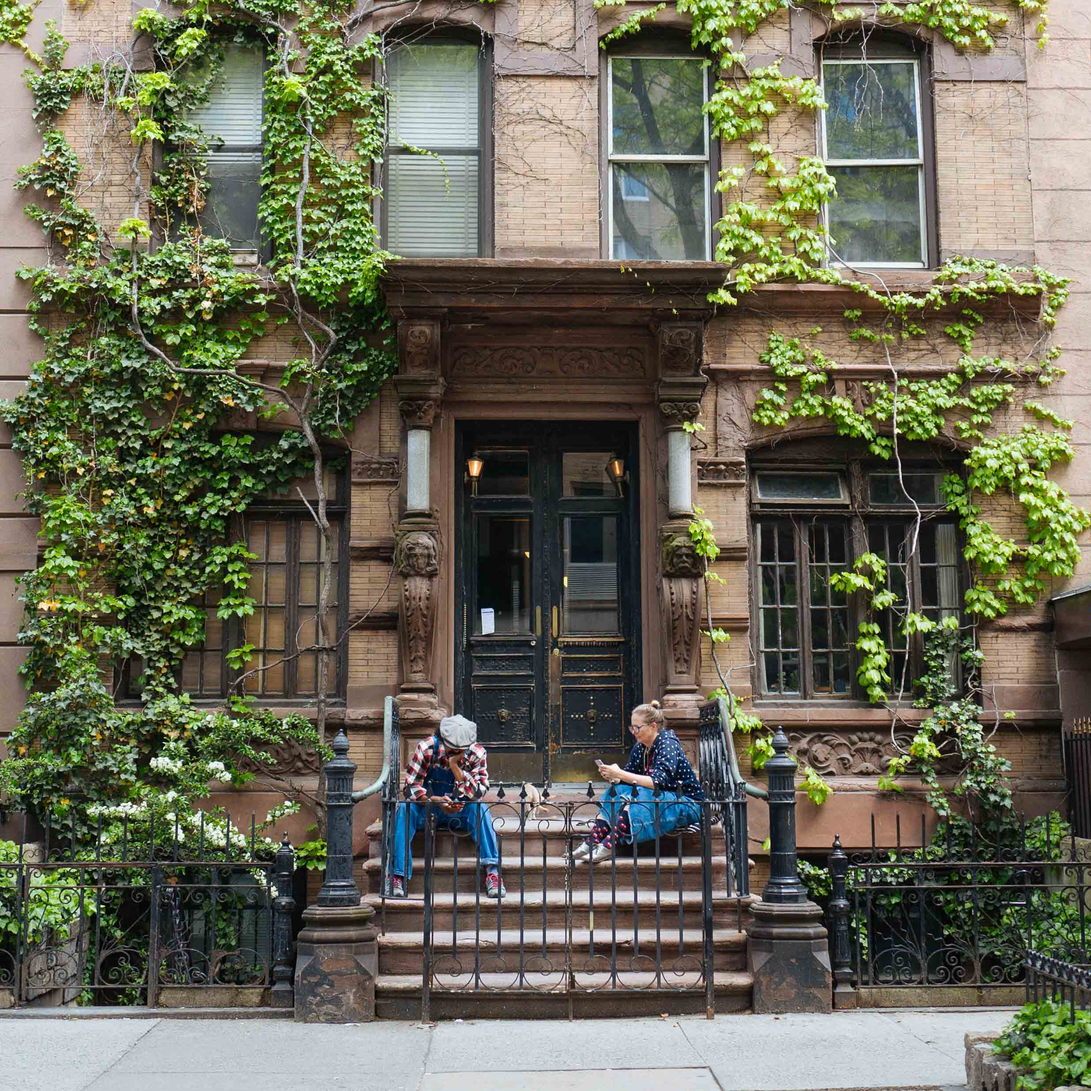
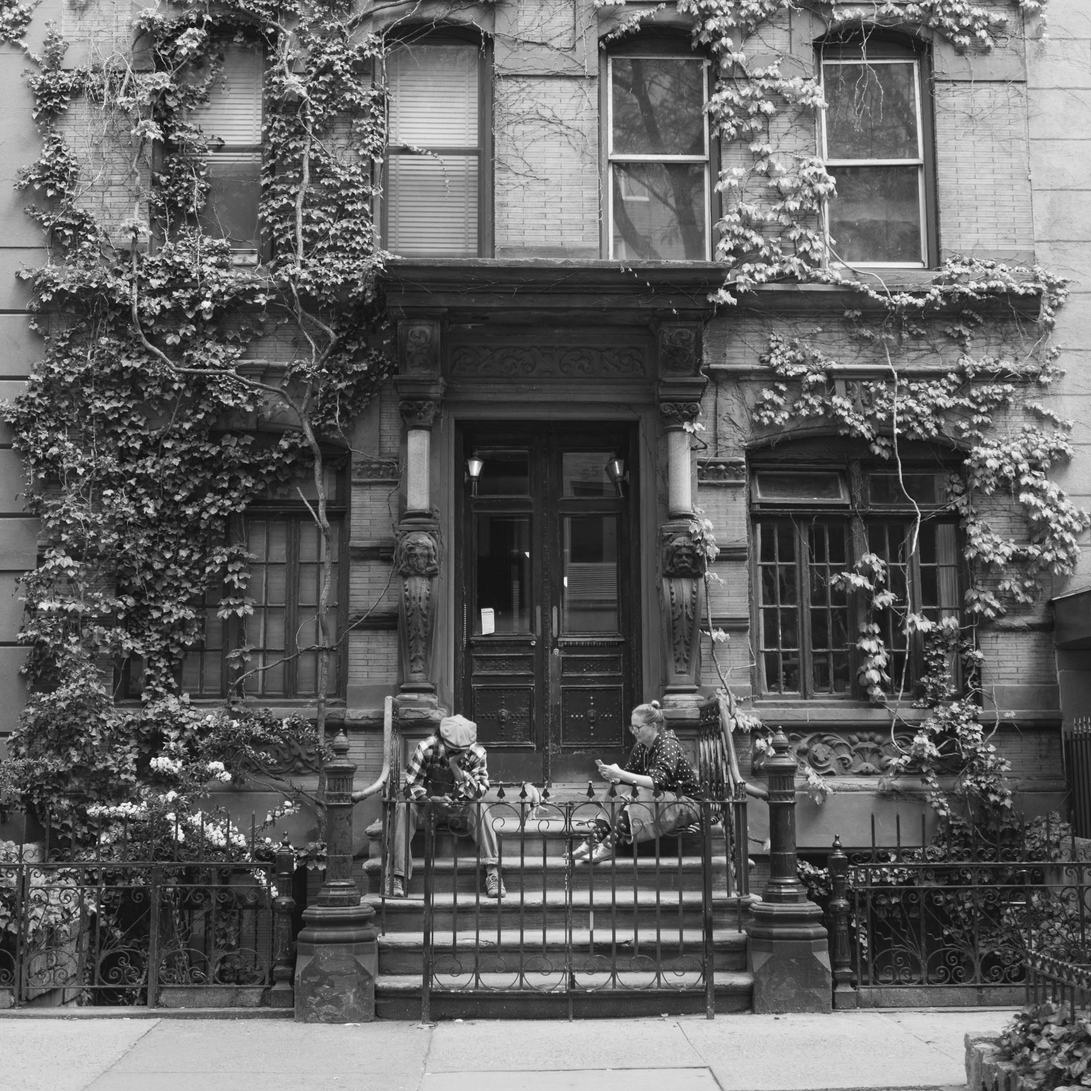
Improve image assets

diff --git a/index.html b/index.html
@@ -11,7 +11,6 @@
 			object-fit: cover;
 			height: 100%;
 			width: 100%;
-			filter: grayscale(100%) opacity(95%);
 		}
 		
 		.content {
@@ -24,7 +23,7 @@
 			text-align: center;
 		}
 		
-		@media screen and (min-width: 768px) {
+		@media (min-width: 480px) {
 			.content {
 				width: 40%;
 			}
@@ -52,7 +51,13 @@
 	</style>
 </head>
 <body>
-	<img src="background.jpg" class="background" id="background"/>
+	<picture>
+		<source srcset="background-mobile.webp" type="image/webp" class="background" />
+		<source srcset="background-mobile.jpg" type="image/jpeg" class="background" /> 
+		<source media="(min-width: 480px)" srcset="background.webp" type="image/webp" class="background" />
+		<source media="(min-width: 480px)" srcset="background.jpg" type="image/jpeg"  class="background" />
+		<img src="background.jpg" class="background" />
+	</picture>
 	<div class="content">
 		<svg xmlns="http://www.w3.org/2000/svg" viewBox="475 122 611 190" class="name">
 			<path fill-rule="evenodd" d="M548.4 205.16c-.56-.56-.84-1.24-.84-2.04V137h-22.2c-.8 0-1.48-.28-2.04-.84-.56-.56-.84-1.28-.84-2.16v-9c0-.88.26-1.6.78-2.16s1.22-.84 2.1-.84h61.32c.88 0 1.6.28 2.16.84.56.56.84 1.28.84 2.16v9c0 .88-.28 1.6-.84 2.16-.56.56-1.28.84-2.16.84H564.6v66.12c0 .8-.26 1.48-.78 2.04s-1.22.84-2.1.84h-11.28c-.8 0-1.48-.28-2.04-.84zm54.24 0c-.56-.56-.84-1.24-.84-2.04V125c0-.88.26-1.6.78-2.16s1.22-.84 2.1-.84h11.04c.88 0 1.6.28 2.16.84.56.56.84 1.28.84 2.16v30.84h35.04V125c0-.88.28-1.6.84-2.16.56-.56 1.24-.84 2.04-.84h11.16c.88 0 1.58.28 2.1.84.52.56.78 1.28.78 2.16v78.12c0 .8-.26 1.48-.78 2.04s-1.22.84-2.1.84h-11.16c-.8 0-1.48-.28-2.04-.84-.56-.56-.84-1.24-.84-2.04v-32.04h-35.04v32.04c0 .8-.28 1.48-.84 2.04-.56.56-1.28.84-2.16.84h-11.04c-.8 0-1.48-.28-2.04-.84zm87.6 0c-.56-.56-.84-1.24-.84-2.04v-78.24c0-.88.28-1.58.84-2.1.56-.52 1.24-.78 2.04-.78h11.52c.88 0 1.58.26 2.1.78s.78 1.22.78 2.1v78.24c0 .8-.26 1.48-.78 2.04s-1.22.84-2.1.84h-11.52c-.8 0-1.48-.28-2.04-.84zm36 0c-.56-.56-.84-1.24-.84-2.04V125c0-.88.26-1.6.78-2.16s1.22-.84 2.1-.84h34.8c9.36 0 16.36 2.06 21 6.18 4.64 4.12 6.96 9.74 6.96 16.86 0 4.16-1.02 7.7-3.06 10.62-2.04 2.92-4.42 5.02-7.14 6.3 3.36 1.52 6.2 4 8.52 7.44 2.32 3.44 3.48 7.36 3.48 11.76 0 7.44-2.52 13.44-7.56 18-5.04 4.56-12.08 6.84-21.12 6.84h-35.88c-.8 0-1.48-.28-2.04-.84zm34.68-48.72c4.08 0 7.22-1 9.42-3s3.3-4.68 3.3-8.04c0-3.36-1.08-5.96-3.24-7.8-2.16-1.84-5.32-2.76-9.48-2.76h-18.6v21.6h18.6zm1.2 36.72c4.16 0 7.4-1.14 9.72-3.42 2.32-2.28 3.48-5.18 3.48-8.7 0-3.52-1.18-6.42-3.54-8.7-2.36-2.28-5.58-3.42-9.66-3.42h-19.8v24.24h19.8zm37.68 12.12c-.48-.48-.72-1.08-.72-1.8l.24-1.08 28.8-77.4c.8-2 2.24-3 4.32-3h13.2c2.08 0 3.52 1 4.32 3l28.8 77.4.24 1.08c0 .72-.26 1.32-.78 1.8s-1.1.72-1.74.72H865.8c-1.68 0-2.84-.76-3.48-2.28l-5.52-14.52h-35.52l-5.52 14.52c-.64 1.52-1.8 2.28-3.48 2.28H801.6c-.72 0-1.32-.24-1.8-.72zm25.68-30h27.12l-13.56-36.96-13.56 36.96zm71.04 23.64c-6-5.52-9-13.88-9-25.08V125c0-.88.26-1.6.78-2.16s1.22-.84 2.1-.84h11.04c.88 0 1.6.28 2.16.84.56.56.84 1.28.84 2.16v48.84c0 6.32 1.5 11.08 4.5 14.28 3 3.2 7.26 4.8 12.78 4.8s9.78-1.6 12.78-4.8c3-3.2 4.5-7.96 4.5-14.28V125c0-.88.28-1.6.84-2.16.56-.56 1.28-.84 2.16-.84h11.04c.88 0 1.58.28 2.1.84.52.56.78 1.28.78 2.16v48.84c0 11.2-2.98 19.56-8.94 25.08-5.96 5.52-14.34 8.28-25.14 8.28-10.88 0-19.32-2.76-25.32-8.28zm96.72 6.24c-.56-.56-.84-1.24-.84-2.04V137h-22.2c-.8 0-1.48-.28-2.04-.84-.56-.56-.84-1.28-.84-2.16v-9c0-.88.26-1.6.78-2.16s1.22-.84 2.1-.84h61.32c.88 0 1.6.28 2.16.84.56.56.84 1.28.84 2.16v9c0 .88-.28 1.6-.84 2.16-.56.56-1.28.84-2.16.84h-22.08v66.12c0 .8-.26 1.48-.78 2.04s-1.22.84-2.1.84h-11.28c-.8 0-1.48-.28-2.04-.84zm-517.32 104c-.56-.56-.84-1.24-.84-2.04V229c0-.88.26-1.6.78-2.16s1.22-.84 2.1-.84h29.28c23.6 0 35.64 10.88 36.12 32.64.16 4.64.24 7.76.24 9.36 0 1.52-.08 4.6-.24 9.24-.32 11.2-3.34 19.46-9.06 24.78-5.72 5.32-14.54 7.98-26.46 7.98h-29.88c-.8 0-1.48-.28-2.04-.84zm31.32-13.08c6.64 0 11.44-1.48 14.4-4.44 2.96-2.96 4.52-7.88 4.68-14.76.16-4.8.24-7.8.24-9 0-1.28-.08-4.24-.24-8.88-.16-6.56-1.8-11.38-4.92-14.46s-8.04-4.62-14.76-4.62H492v56.16h15.24zm60.48 6.84c-6-5.52-9-13.88-9-25.08V229c0-.88.26-1.6.78-2.16s1.22-.84 2.1-.84h11.04c.88 0 1.6.28 2.16.84.56.56.84 1.28.84 2.16v48.84c0 6.32 1.5 11.08 4.5 14.28 3 3.2 7.26 4.8 12.78 4.8s9.78-1.6 12.78-4.8c3-3.2 4.5-7.96 4.5-14.28V229c0-.88.28-1.6.84-2.16.56-.56 1.28-.84 2.16-.84h11.04c.88 0 1.58.28 2.1.84.52.56.78 1.28.78 2.16v48.84c0 11.2-2.98 19.56-8.94 25.08-5.96 5.52-14.34 8.28-25.14 8.28-10.88 0-19.32-2.76-25.32-8.28zm96.72 6.24c-.56-.56-.84-1.24-.84-2.04V241h-22.2c-.8 0-1.48-.28-2.04-.84-.56-.56-.84-1.28-.84-2.16v-9c0-.88.26-1.6.78-2.16s1.22-.84 2.1-.84h61.32c.88 0 1.6.28 2.16.84.56.56.84 1.28.84 2.16v9c0 .88-.28 1.6-.84 2.16-.56.56-1.28.84-2.16.84h-22.08v66.12c0 .8-.26 1.48-.78 2.04s-1.22.84-2.1.84h-11.28c-.8 0-1.48-.28-2.04-.84zm37.68.12c-.48-.48-.72-1.08-.72-1.8l.24-1.08 28.8-77.4c.8-2 2.24-3 4.32-3h13.2c2.08 0 3.52 1 4.32 3l28.8 77.4.24 1.08c0 .72-.26 1.32-.78 1.8s-1.1.72-1.74.72h-10.68c-1.68 0-2.84-.76-3.48-2.28l-5.52-14.52H723.6l-5.52 14.52c-.64 1.52-1.8 2.28-3.48 2.28h-10.68c-.72 0-1.32-.24-1.8-.72zm25.68-30h27.12l-13.56-36.96-13.56 36.96zm65.4 29.88c-.56-.56-.84-1.24-.84-2.04V229c0-.88.26-1.6.78-2.16s1.22-.84 2.1-.84h31.08c9.84 0 17.54 2.28 23.1 6.84 5.56 4.56 8.34 11.04 8.34 19.44 0 5.84-1.4 10.74-4.2 14.7-2.8 3.96-6.72 6.82-11.76 8.58l17.4 30.6c.24.48.36.92.36 1.32 0 .72-.26 1.32-.78 1.8s-1.1.72-1.74.72H846c-1.28 0-2.28-.3-3-.9-.72-.6-1.36-1.38-1.92-2.34l-15.36-28.44h-16.44v28.8c0 .8-.28 1.48-.84 2.04-.56.56-1.28.84-2.16.84h-11.04c-.8 0-1.48-.28-2.04-.84zm32.76-44.52c4.8 0 8.4-1.06 10.8-3.18 2.4-2.12 3.6-5.22 3.6-9.3 0-4.08-1.2-7.22-3.6-9.42-2.4-2.2-6-3.3-10.8-3.3h-16.68v25.2h16.68zm65.64 44.52c-.56-.56-.84-1.24-.84-2.04V241h-22.2c-.8 0-1.48-.28-2.04-.84-.56-.56-.84-1.28-.84-2.16v-9c0-.88.26-1.6.78-2.16s1.22-.84 2.1-.84h61.32c.88 0 1.6.28 2.16.84.56.56.84 1.28.84 2.16v9c0 .88-.28 1.6-.84 2.16-.56.56-1.28.84-2.16.84H907.8v66.12c0 .8-.26 1.48-.78 2.04s-1.22.84-2.1.84h-11.28c-.8 0-1.48-.28-2.04-.84zm54.24 0c-.56-.56-.84-1.24-.84-2.04V229c0-.88.26-1.6.78-2.16s1.22-.84 2.1-.84h31.08c9.84 0 17.54 2.28 23.1 6.84 5.56 4.56 8.34 11.04 8.34 19.44 0 5.84-1.4 10.74-4.2 14.7-2.8 3.96-6.72 6.82-11.76 8.58l17.4 30.6c.24.48.36.92.36 1.32 0 .72-.26 1.32-.78 1.8s-1.1.72-1.74.72h-11.04c-1.28 0-2.28-.3-3-.9-.72-.6-1.36-1.38-1.92-2.34l-15.36-28.44h-16.44v28.8c0 .8-.28 1.48-.84 2.04-.56.56-1.28.84-2.16.84h-11.04c-.8 0-1.48-.28-2.04-.84zm32.76-44.52c4.8 0 8.4-1.06 10.8-3.18 2.4-2.12 3.6-5.22 3.6-9.3 0-4.08-1.2-7.22-3.6-9.42-2.4-2.2-6-3.3-10.8-3.3h-16.68v25.2h16.68zm48.12 44.52c-.56-.56-.84-1.24-.84-2.04V229c0-.88.26-1.6.78-2.16s1.22-.84 2.1-.84h52.92c.88 0 1.6.28 2.16.84.56.56.84 1.28.84 2.16v8.04c0 .88-.28 1.58-.84 2.1-.56.52-1.28.78-2.16.78h-39.36v21h36.72c.88 0 1.6.28 2.16.84.56.56.84 1.28.84 2.16v7.56c0 .88-.28 1.58-.84 2.1-.56.52-1.28.78-2.16.78h-36.72v21.72h40.32c.88 0 1.6.26 2.16.78s.84 1.22.84 2.1v8.16c0 .88-.28 1.58-.84 2.1-.56.52-1.28.78-2.16.78h-53.88c-.8 0-1.48-.28-2.04-.84z"/>
